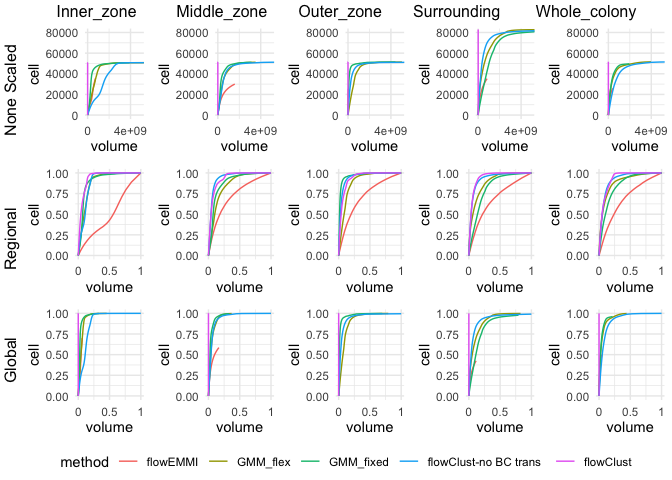
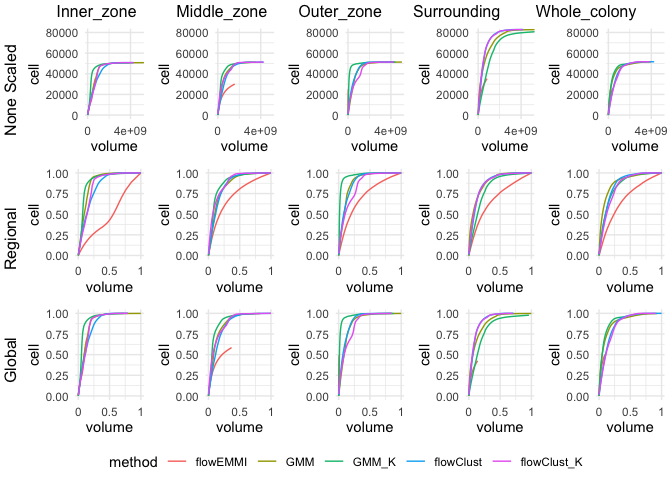
update comparison

diff --git a/workflow/02a-flowEMMi-for-Z-project.md b/workflow/02a-flowEMMi-for-Z-project.md
@@ -1,6 +1,6 @@
 02a-flowEMMi for-Z-project
 ================
-Compiled at 2023-11-05 19:03:09 UTC
+Compiled at 2023-11-19 19:07:49 UTC
 
 ``` r
 here::i_am(paste0(params$name, ".Rmd"), uuid = "11675b32-9913-442e-9b4a-03cdc39afb65")
@@ -524,7 +524,6 @@ annotate_figure(complete,
 
 ``` r
 location <- c("Inner_zone","Middle_zone","Outer_zone","Surrounding","Whole_colony")
-scale.type <- c("raw.point")
 point <- list()
 
 p1 <- plot_point(roc_19)
@@ -547,8 +546,6 @@ for (i in 1:5){
     scale_x_continuous(breaks = seq(0,1.5e9,by=1.5e9),labels = c(0,1.5e9))+
     theme_minimal()
 }
-  
-
 
 complete <- ggarrange(plotlist = point,
           ncol=3, nrow=2, common.legend = TRUE, legend="bottom")
@@ -561,10 +558,10 @@ annotate_figure(complete,top = "FSC vs. DAPI: Without Scaling")
 
 ``` r
 roc_flowEMMI <- readRDS("~/Desktop/MSc_new_data/roc_DAPI.rds")
-roc_GMM_flex <- readRDS("~/Desktop/MSc_new_data/GMM.roc.flex19.rds")
-roc_GMM_fixed <- readRDS("~/Desktop/MSc_new_data/GMM.roc.fix19.rds")
-roc_fC_no_BC_trans <- readRDS("~/Desktop/MSc_new_data/test0.rds")
-roc_flowClust <- readRDS("~/Desktop/MSc_new_data/DAPI_bc.rds")
+roc_GMM_flex <- readRDS("~/Desktop/MSc_new_data/DAPI_GMM_flex_roc.rds")
+roc_GMM_fix <- readRDS("~/Desktop/MSc_new_data/DAPI_GMM_fix_roc.rds")
+roc_fC_flex <- readRDS("~/Desktop/MSc_new_data/DAPI_fC_flex_roc.rds")
+roc_fC_fix <- readRDS("~/Desktop/MSc_new_data/DAPI_fC_fix_roc.rds")
 
 point <- list()
 
@@ -573,32 +570,31 @@ data1 <- roc_flowEMMI[[i]]
 data1$method <- as.factor("flowEMMI")
 
 data2 <- roc_GMM_flex[[i]]$roc.table
-data2$method <- as.factor("GMM_flex")
+data2$method <- as.factor("GMM")
 
-data3 <- roc_GMM_fixed[[i]]$roc.table
-data3$method <- as.factor("GMM_fixed")
+data3 <- roc_GMM_fix[[i]]$roc.table
+data3$method <- as.factor("GMM_K")
 
-data4 <- roc_fC_no_BC_trans[[i]]$roc.table
-data4$method <- as.factor("flowClust-no BC trans")
+data4 <- roc_fC_flex[[i]]$roc.table
+data4$method <- as.factor("flowClust")
 
-data5 <- roc_flowClust[[i]]$roc.table
-data5$method <- as.factor("flowClust")
+data5 <- roc_fC_fix[[i]]$roc.table
+data5$method <- as.factor("flowClust_K")
 
 plot.points <- data.frame()
 plot.scale <- data.frame()
 plot.scale.points <- data.frame()
 
-for (j in 1:5){
-  var <- paste0("data",j)
+for (m in 1:5){
+  var <- paste0("data",m)
   data <- get(var)
-  data[1,1:2] <- c(0,0)
+  if (m<4) {data[1,1:2] <- c(0,0)}
   
   # No Scaling
   plot.points <- rbind(plot.points,data)
   
   # Scaled by regional maximum
-  if(j < 4){max=data[100,]}
-  else{max=data[2,]}
+  max=data[nrow(data),]
   
   for (j in 1:100){
     data[j,1] <- data[j,1]/max[1,1]
@@ -626,6 +622,7 @@ for (j in 1:5){
   point[[i+5]] <- ggplot(plot.scale, aes(x = volume, y = cell, color = method)) +
     geom_line() +
     labs(x = "volume", y = "cell") +
+    coord_cartesian(xlim=c(0,1),ylim=c(0,1)) +
     scale_x_continuous(breaks = seq(0,1,by=0.5),labels = c(0,0.5,1))+
     theme_minimal()
   
@@ -638,6 +635,15 @@ for (j in 1:5){
 }
 
 complete <- ggarrange(plotlist = point,ncol=5, nrow=3, common.legend = TRUE, legend="bottom")
+```
+
+    ## Warning: Removed 2 rows containing missing values (`geom_line()`).
+    ## Removed 2 rows containing missing values (`geom_line()`).
+    ## Removed 2 rows containing missing values (`geom_line()`).
+    ## Removed 2 rows containing missing values (`geom_line()`).
+    ## Removed 2 rows containing missing values (`geom_line()`).
+
+``` r
 annotate_figure(complete,
                 top = "Inner_zone         Middle_zone       Outer_zone       Surrounding        Whole_colony",
                 left = "            Global               Regional                None Scaled") 
